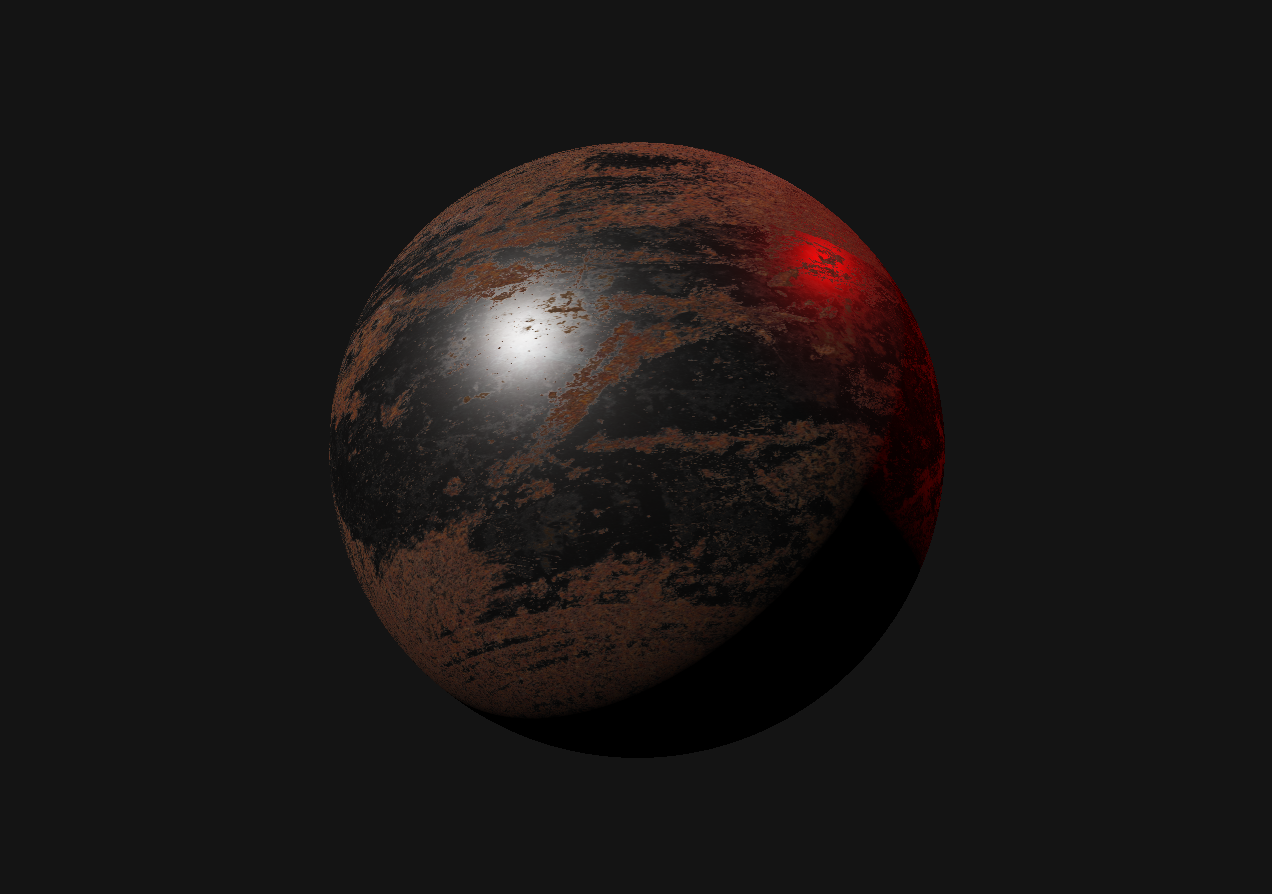
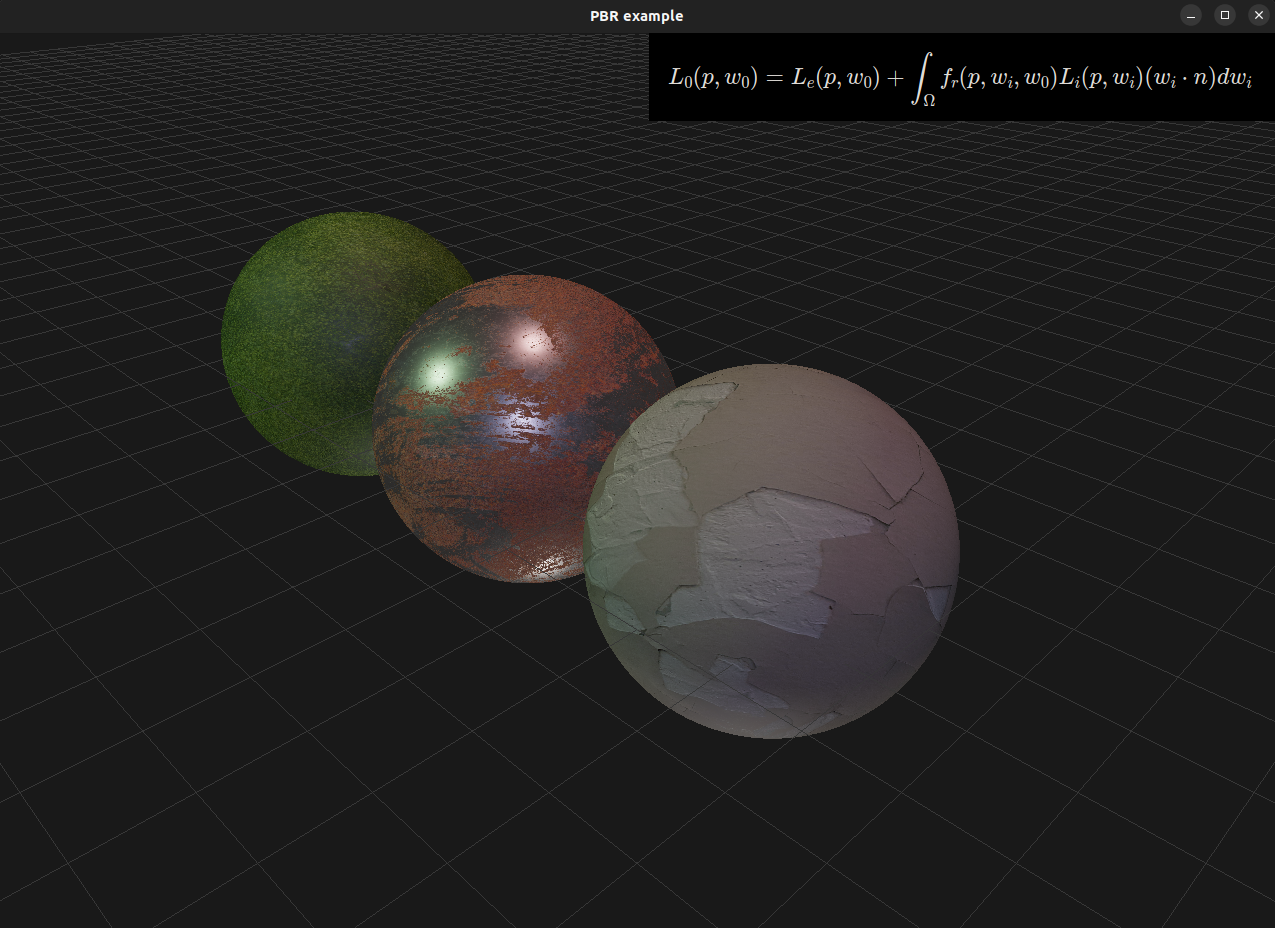
PBR

diff --git a/test/testPBR/src/main.cpp b/test/testPBR/src/main.cpp
@@ -111,24 +111,42 @@ int main() {
     renderer->enablePBR();
 
     // Lighting
-    PointLight light1(glm::vec3(-3, 0, 3));
-    light1.setColor(glm::vec3(1, 0, 0));
-    renderer->addLight(light1);
+    DirectionalLight light(glm::vec3(15));
+    light.setColor(glm::vec3(0.5, 0.5, 1));
+    renderer->addLight(light);
 
-    DirectionalLight light2(glm::vec3(15));
-    light2.setColor(glm::vec3(1));
+    DirectionalLight light2(glm::vec3(-15, 15, 15));
+    light2.setColor(glm::vec3(0.5, 1.0, 0.5));
     renderer->addLight(light2);
+
+    DirectionalLight light3(glm::vec3(0, 15, -1));
+    light3.setColor(glm::vec3(1.0, 0.5, 0.5));
+    renderer->addLight(light3);
+
+    DirectionalLight light4(glm::vec3(0, -15, 0));
+    light4.setColor(glm::vec3(1.0));
+    renderer->addLight(light4);
 
     // Camera
     double aspectRatio = static_cast<double>(WIDTH) / HEIGHT;
     TrackballCamera camera = TrackballCamera::perspectiveCamera(glm::radians(45.0f), aspectRatio, 0.1, 1000);
-    camera.zoom(-5.5);
+    camera.setPhi(M_PI / 3);
+    camera.setTheta(M_PI / 4);
+    camera.zoom(-6.5);
     renderer->setCamera(camera);
 
     // Polytope
     Polytope::Ptr sphere = createSphere();
     sphere->setFaceCulling(Polytope::FaceCulling::FRONT);
-    sphere->scale(glm::vec3(1.5));
+    sphere->translate(glm::vec3(-1.0, 0.0, 0.0));
+
+    Polytope::Ptr sphere2 = createSphere();
+    sphere2->setFaceCulling(Polytope::FaceCulling::FRONT);
+    sphere2->translate(glm::vec3(-3.0, 0.0, 0.0));
+
+    Polytope::Ptr sphere3 = createSphere();
+    sphere3->setFaceCulling(Polytope::FaceCulling::FRONT);
+    sphere3->translate(glm::vec3(1.0, 0.0, 0.0));
 
     // PBR materials
     Texture::Ptr textureAlbedo = Texture::New("/home/morcillosanz/Desktop/model/rustediron1-alt2-Unreal-Engine/rustediron2_basecolor.png", Texture::Type::TextureAlbedo);
@@ -136,31 +154,84 @@ int main() {
     Texture::Ptr textureNormal = Texture::New("/home/morcillosanz/Desktop/model/rustediron1-alt2-Unreal-Engine/Srustediron2_normal.png", Texture::Type::TextureNormal);
     Texture::Ptr textureRoughness = Texture::New("/home/morcillosanz/Desktop/model/rustediron1-alt2-Unreal-Engine/rustediron2_roughness.png", Texture::Type::TextureRoughness);
 
+    Texture::Ptr textureAlbedo2 = Texture::New("/home/morcillosanz/Desktop/model/Moss002_2K-JPG/Moss002_2K_Color.jpg", Texture::Type::TextureAlbedo);
+    Texture::Ptr textureMetallic2 = Texture::New("/home/morcillosanz/Desktop/model/Moss002_2K-JPG/Moss002_2K_Metalness.jpg", Texture::Type::TextureMetallic);
+    Texture::Ptr textureNormal2 = Texture::New("/home/morcillosanz/Desktop/model/Moss002_2K-JPG/Moss002_2K_NormalGL.jpg", Texture::Type::TextureNormal);
+    Texture::Ptr textureRoughness2 = Texture::New("/home/morcillosanz/Desktop/model/Moss002_2K-JPG/Moss002_2K_Roughness.jpg", Texture::Type::TextureRoughness);
+    Texture::Ptr textureAmbientOcclusion2 = Texture::New("/home/morcillosanz/Desktop/model/Moss002_2K-JPG/Moss002_2K_AmbientOcclusion.jpg", Texture::Type::TextureAmbientOcclusion);
+
+    Texture::Ptr textureAlbedo3 = Texture::New("/home/morcillosanz/Desktop/model/chipping-painted-wall-ue/chipping-painted-wall_albedo.png", Texture::Type::TextureAlbedo);
+    Texture::Ptr textureMetallic3 = Texture::New("/home/morcillosanz/Desktop/model/chipping-painted-wall-ue/chipping-painted-wall_metallic.png", Texture::Type::TextureMetallic);
+    Texture::Ptr textureNormal3 = Texture::New("/home/morcillosanz/Desktop/model/chipping-painted-wall-ue/chipping-painted-wall_normal-dx.png", Texture::Type::TextureNormal);
+    Texture::Ptr textureRoughness3 = Texture::New("/home/morcillosanz/Desktop/model/chipping-painted-wall-ue/chipping-painted-wall_roughness.png", Texture::Type::TextureRoughness);
+
     sphere->addTexture(textureAlbedo);
     sphere->addTexture(textureMetallic);
     sphere->addTexture(textureNormal);
     sphere->addTexture(textureRoughness);
 
+    sphere2->addTexture(textureAlbedo2);
+    sphere2->addTexture(textureMetallic2);
+    sphere2->addTexture(textureNormal2);
+    sphere2->addTexture(textureRoughness2);
+    sphere2->addTexture(textureAmbientOcclusion2);
+
+    sphere3->addTexture(textureAlbedo3);
+    sphere3->addTexture(textureMetallic3);
+    sphere3->addTexture(textureNormal3);
+    sphere3->addTexture(textureRoughness3);
+
+    // Grid polytope
+    std::vector<Vec3f> gridVertices = {};
+    float a = -20; float b = -a;
+    float c = -20; float d = -c;
+    float dx = 0.5f; float dz = dx;
+    while(a <= b) {
+        gridVertices.push_back(Vec3f(a, 0, c, 1.0, 1.0, 1.0));
+        gridVertices.push_back(Vec3f(a, 0, d, 1.0, 1.0, 1.0));
+        a += dx;
+    }
+    a = -b;
+    while(c <= d) {
+        gridVertices.push_back(Vec3f(a, 0, c, 1.0, 1.0, 1.0));
+        gridVertices.push_back(Vec3f(b, 0, c, 1.0, 1.0, 1.0));
+        c += dz;
+    }
+    Polytope::Ptr gridPolytope = Polytope::New(gridVertices);
+
+    PBRMaterial::Ptr pbrMaterial = PBRMaterial::New(glm::vec3(1.0), 0.2, 1.0, 1.0);
+    gridPolytope->setMaterial(pbrMaterial);
+
+    Group::Ptr groupGrid = Group::New(GL_LINES);
+    groupGrid->setLineWidth(1.2f);
+    groupGrid->add(gridPolytope);
+
     // Group
     Group::Ptr group = Group::New();
     group->add(sphere);
-
+    group->add(sphere2);
+    group->add(sphere3);
+    
     // Scene
     Scene::Ptr scene = Scene::New();
+    scene->addGroup(groupGrid);
     scene->addGroup(group);
+    
     renderer->addScene(scene);
 
     // Main loop
     while (!glfwWindowShouldClose(window)) {
 
         sphere->rotate(0.25, glm::vec3(1, 0, 1));
+        sphere2->rotate(0.25, glm::vec3(1, 0, 1));
+        sphere3->rotate(0.25, glm::vec3(1, 0, 1));
 
-        renderer->setBackgroundColor(0.08, 0.08, 0.08);
+        renderer->setBackgroundColor(0.1, 0.1, 0.1);
 
         // Draw scene
         renderer->clear();
         renderer->render();
-        
+
         // Update window
         glfwSwapBuffers(window);
         glfwPollEvents();

diff --git a/src/engine/renderer/Renderer.cpp b/src/engine/renderer/Renderer.cpp
@@ -460,6 +460,10 @@ void Renderer::drawGroup(Scene::Ptr& scene, Group::Ptr& group) {
 
     primitiveSettings(group);
     
+    enableBlending();
+    glEnable(GL_DEPTH_TEST);
+    glBlendFunc(GL_SRC_ALPHA, GL_ONE_MINUS_SRC_ALPHA);
+    
     for(auto& polytope : group->getPolytopes()) {
 
         // Compute model matrix from polytope, group and scene

diff --git a/README.md b/README.md
@@ -1,12 +1,10 @@
 # RendererGL
 
-RendererGL is a 3D renderer written in C++ and OpenGL. The main objective of this project is to create a framework that allows working with 3D graphics without the need to know computer graphics or OpenGL. So that both beginners and more experienced programmers can create a 3D scene with lighting, shadows and more advanced 3D models in an easy way.
+RendererGL is a 3D renderer written in C++ and OpenGL. The main objective of this project is to create a framework that allows working with 3D graphics without the need to know computer graphics or OpenGL. So that both beginners and more experienced programmers can create a 3D scene with lighting, shadows and materials.
 
 > **Warning** This project is still under development
 
-`test` is an example code using GLFW and ImGui with RendererGL
-
-Take a look at some [screenshots](#screenshots) of test
+Take a look at some [screenshots](#screenshots)
 
 ## Features
 
@@ -21,7 +19,7 @@ Take a look at some [screenshots](#screenshots) of test
 * Skybox (cubemap)
 * FrameCapturer (create a texture of the scene)
 * Blinn-Phong lighting
-* PBR
+* Physically Based Rendering (PBR)
 * Emission
 * Shadow Mapping (percentage closer filtering)
 * Normal Mapping
@@ -137,15 +135,15 @@ int main() {
 
 ## Screenshots
 
-**Multiple point lights**
+**Multiple point lights (Blinn-Phong)**
 
 ![](img/lighting.png)
 
-**Shadows**
+**Shadow Mapping**
 
 ![](img/shadows.png)
 
-**PBR**
+**PBR Materials**
 
 ![](img/pbr.png)
 
